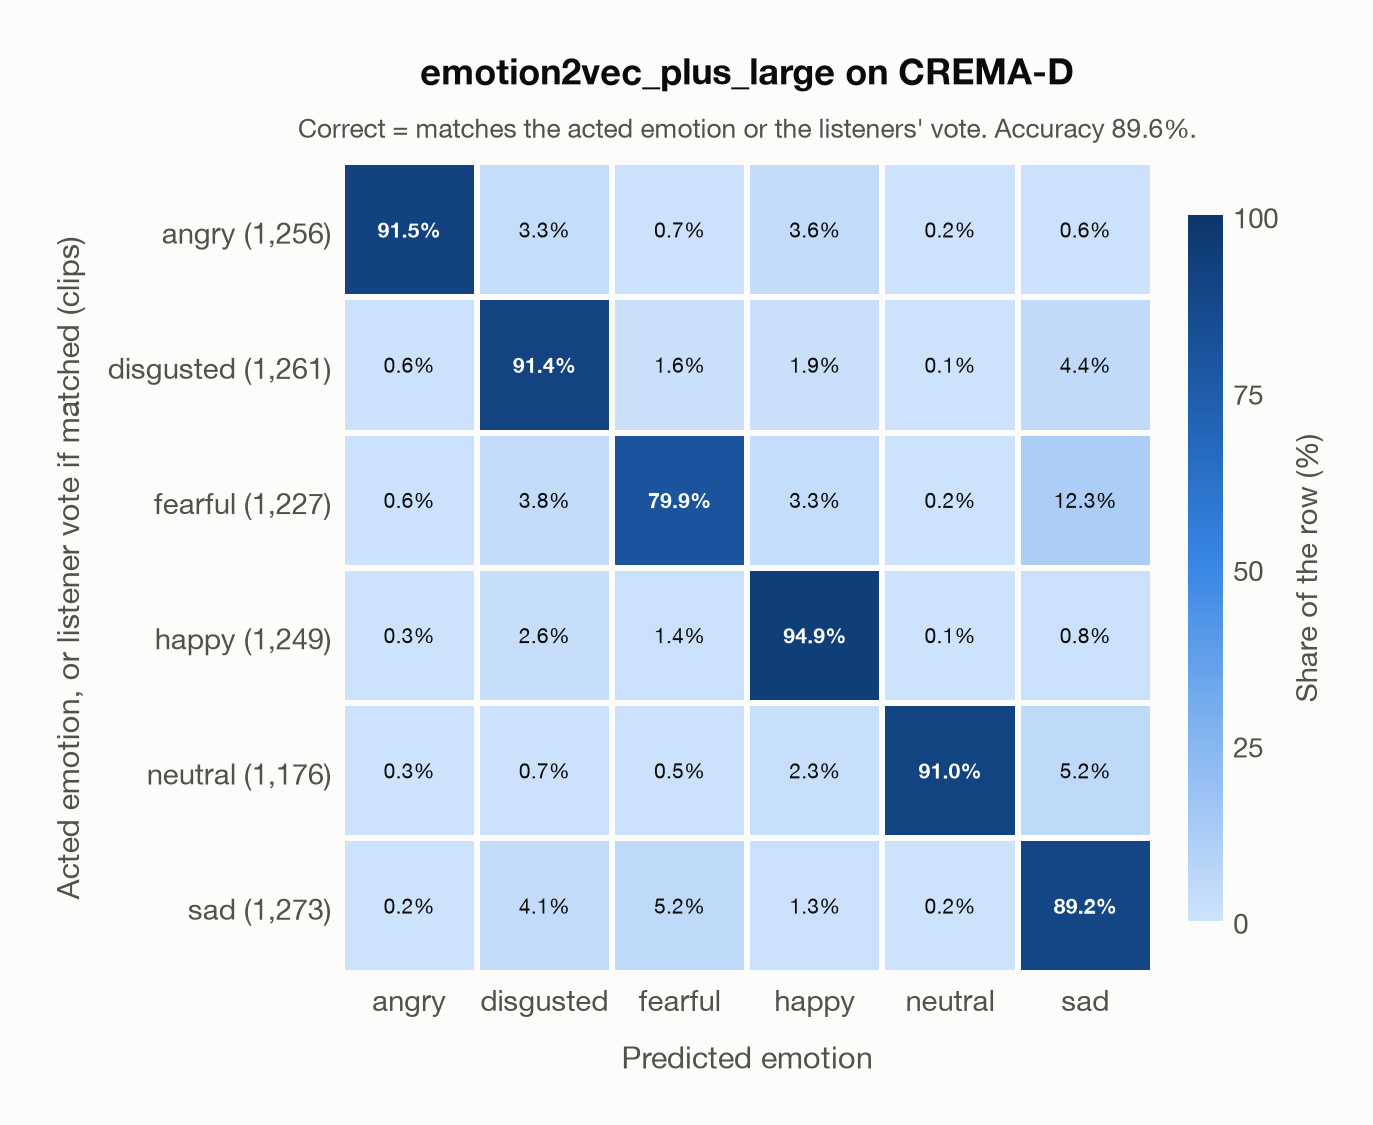
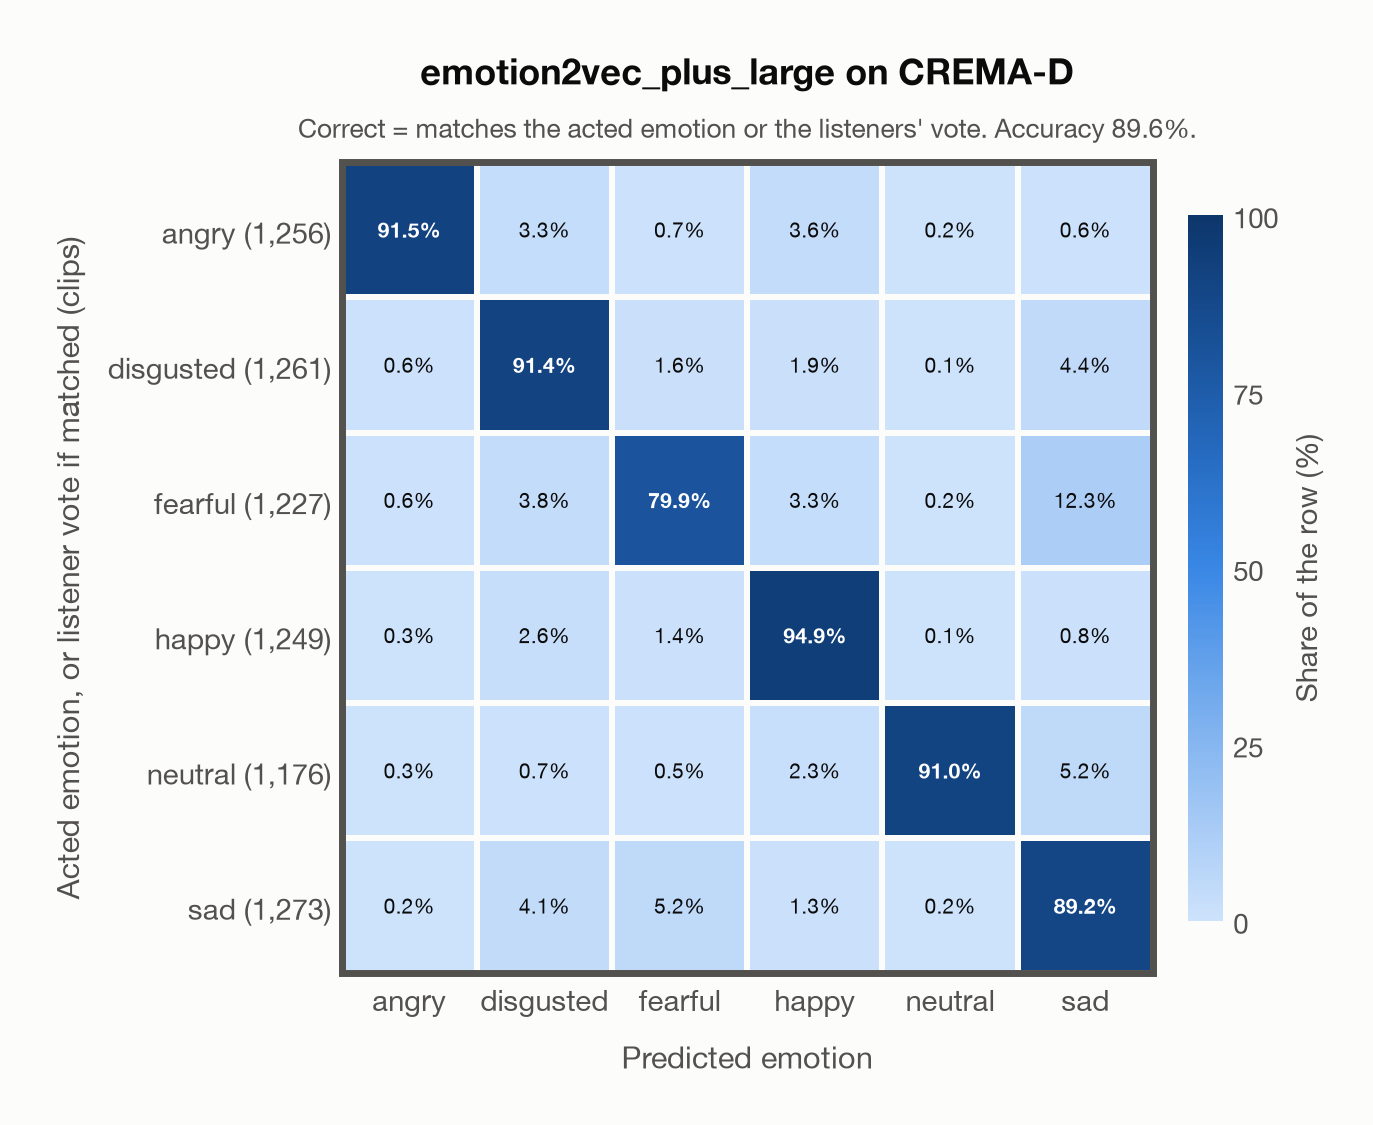
Draw a thick frame around the grid of each confusion matrix
The frame now sits around the cells of every confusion matrix (in the reports and in the summary figure)
instead of around the panels of the summary figure. All report figures were redrawn from the saved
predictions; their numbers are unchanged.

Changed region(s): [[0.2447, 0.1244, 0.8565, 0.8711]]

diff --git a/scripts/evaluate.py b/scripts/evaluate.py
@@ -94,6 +94,8 @@ def plot_confusion(cm, names, title, subtitle, ylabel, path):
     fig, ax = plt.subplots(figsize=(6.4, 5.6), dpi=200, facecolor=SURFACE)
     # A 2-px gap in the surface colour separates the cells (no borders)
     mesh = ax.pcolormesh(share, cmap=cmap, vmin=0, vmax=100, edgecolors=SURFACE, linewidth=2)
+    # A thick frame around the grid of cells (clip_on=False draws its full width at the edge of the axes)
+    ax.add_patch(plt.Rectangle((0, 0), len(names), len(names), fill=False, edgecolor=INK_2, linewidth=2.5, clip_on=False))
     for r in range(len(names)):
         for c in range(len(names)):
             ax.text(c + 0.5, r + 0.5, f"{share[r, c]:.1f}%", ha="center", va="center", fontsize=7.5,
@@ -121,25 +123,22 @@ def plot_confusion(cm, names, title, subtitle, ylabel, path):
     plt.close(fig)
 
 
-def stitch(paths, path, columns=3, gap=32, pad=24, border=6):
-    """Put figures in a grid, row by row, each in a frame with a thick border. The empty margin of each figure is cut
-    off first, so `gap` (between frames) and `pad` (inside a frame) set the spacing. All frames have the same size;
-    each figure is centred across its frame and aligned to its top, so the titles of a row line up."""
-    from PIL import Image, ImageChops, ImageDraw
+def stitch(paths, path, columns=3, col_gap=110, row_gap=80, margin=50):
+    """Put figures in a grid, row by row. The empty margin of each figure is cut off first, so the gaps set the
+    spacing; each figure is centred across its cell and aligned to its top, so the titles of a row line up."""
+    from PIL import Image, ImageChops
     images = []
     for p in paths:
         im = Image.open(p).convert("RGB")
         images.append(im.crop(ImageChops.difference(im, Image.new("RGB", im.size, SURFACE)).getbbox()))
     columns = min(columns, len(images))
     rows = -(-len(images) // columns)
-    w = max(im.width for im in images) + 2 * (pad + border)
-    h = max(im.height for im in images) + 2 * (pad + border)
-    grid = Image.new("RGB", (columns * w + (columns + 1) * gap, rows * h + (rows + 1) * gap), SURFACE)
-    draw = ImageDraw.Draw(grid)
+    w, h = max(im.width for im in images), max(im.height for im in images)
+    grid = Image.new("RGB", (2 * margin + columns * w + (columns - 1) * col_gap,
+                             2 * margin + rows * h + (rows - 1) * row_gap), SURFACE)
     for k, im in enumerate(images):
-        x, y = gap + (k % columns) * (w + gap), gap + (k // columns) * (h + gap)
-        draw.rounded_rectangle((x, y, x + w - 1, y + h - 1), radius=18, outline=INK_2, width=border)
-        grid.paste(im, (x + (w - im.width) // 2, y + border + pad))
+        grid.paste(im, (margin + (k % columns) * (w + col_gap) + (w - im.width) // 2,
+                        margin + (k // columns) * (h + row_gap)))
     grid.save(path, optimize=True)
 
 
